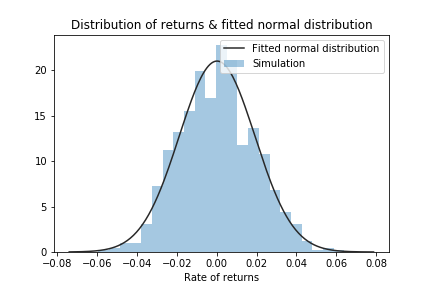
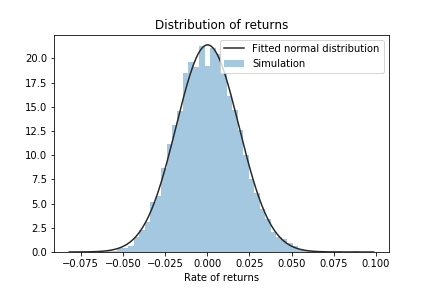
thesis: Continued with results

diff --git a/thesis/content/results.tex b/thesis/content/results.tex
@@ -80,7 +80,19 @@ when the equilibrium is reached is shown in ~\ref{fig:basic_market_depth_equilib
     \label{fig:market_depths}
 \end{figure}
 
+% Evolution and characteristics of the order book via the heatmap
+The complete evolution of the order book thorough the simulations is shown in figure
+~\ref{fig:basic_orderbook_evo}. The 
+
 \begin{figure}
+    \includegraphics[width=\linewidth]{plots/basic_order_book_evo.png}
+    \caption{Order book evolution}
+    \label{fig:basic_orderbook_evo}
+\end{figure}
+
+
+\begin{figure}
+    % Probably remove this
     \includegraphics[width=\linewidth]{plots/basic_market_depth_in_equilibrium.png}
     \caption{Market depth when equilibrium reached (last 50 sessions)}
     \label{fig:basic_market_depth_equilibrium}
@@ -98,32 +110,21 @@ the first 100 trading sessions are filtered out from the simulation with
 lower initiated market price and the data produced from it is used for 
 studying the stylized facts in the model.
 
+% Autocorrelation
 The autocorrelation function (ACF) and partial autocorrelation function (PACF) for the last prices of
-each session are plotted in the figure ~\ref{fig:basic_autocorr}. ACF and PACF indicate that there is 
+each session are plotted in the figure ~\ref{fig:basic_autocorr}. Even though the literature discuss
+about the absence of autocorrelation in asset returns, the prices themselves are already stationary when
+the equilibrium is reached which is obviously not the case in real markets. ACF and PACF indicate that there is 
 an autoregressive (AR) process for up to 15 lags and a moving average (MA) process to the third lag. Therefore
-there is a clear autocorrelation in the model with the stated simulation parameters. This
-observation is possibly caused by option for doing nothing which occurs with slightly higher than
-one-third probability due to slight chance for invalid order submission. As the price in each order
+there is a clear autocorrelation in the model with the stated simulation parameters. One could expect such
+a behaviour to be caused by the traders' option of not changing their active order which happened with a probability of
+one-third per placement. As the price in each order
 is dependent on the market price which existed when the order was created and as there is a chance that
-this order will stay in the order book for some time, the market price in the past has influence on the
-current structure of the order book and therefore a past market prices have effect on the upcoming prices.
+this order will stay in the order book for some time, therefore the market price in the past has influence on the
+current structure of the order book as some of the orders are carried to future state of the market. 
+In other words, a past market prices may have effect on the upcoming prices via the order book.
 This phenomenon can be interpret from the figure ~\ref{fig:basic_market_depth_equilibrium}: the valley
-formed by the sides of the order book resembles river. In case of no autocorrelation, one would expect
-that there would be no clear continuous valley formed by the order book and the spread would change
-its location more intensively. 
-% NOT TRUE, autocorrelation found when there is no option for "inaction"
-% Maybe the reason is that when the price gets lower, less has 
-
-This indicates that if the zero intelligent traders are given the option to not change their orders and
-the market is structured as continuous double auction, autocorrelation may be inevitable. Either the
-rationality of the traders regarding to when they decide to do nothing should be increased, the option
-to do nothing should be taken off or limit the lifetime of an order in order to reduce the autocorrelation.
-In addition, \citet{StylizedFacts01} also discussed that in the real markets there may be autocorrelation 
-of returns for small intraday time periods, such as 20 minutes, due to market microstructure and therefore
-one trading session in the simulation may be more closer, in terms of interpretation, to a smaller period 
-than one day.
-% Something about intra day autocorrelation in real markets. Maybe if a trading session is considered as
-% trading hour, the simulation is more realistic?
+formed by the sides of the order book resembles river.
 
 \begin{figure}
     \includegraphics[width=\linewidth]{plots/basic_autocorrelation.png}
@@ -131,33 +132,103 @@ than one day.
     \label{fig:basic_autocorr}
 \end{figure}
 
+% The real reason for the autocorrelation
+However, this is not the underlying reason for the existence of the autocorrelation. There is similar type and
+magnitude of autocorrelation when the option of doing nothing is taken away. This can be observed in the figure 
+~\ref{fig:forcesub_autocorr}. This suggests that the autocorrelation is not caused by the order book structure
+as in the said experiment the order book reconstructed during each session. Furthermore, as the investors themselves are
+not aware of the past and only their positions are the only component reflecting the past, explanation for the 
+autocorrelation lies in these positions. Even though the total amount of currency and stock stay constant throughout
+trading sessions the distribution of the assets among the traders do not. The relationship between the imbalance
+of the assets between the traders, represented as the standard deviation of the positions among the traders, and
+the next session's last market price is studied using a multivariate linear regression. This model's performance is
+shown in the table ~\ref{tbl:price_explanation}. The model is statistically significant as the p-value of f-statistics
+is near zero. In addition, the coefficient of determination, called R squared, is as high as 0.999 meaning that
+almost all of the variance in the next session's price is explained by the regression model. To summarize, the
+autocorrelation is caused by the imbalance of the positions among the traders and not by the market microstructure
+or as a direct result of the decision mechanics of the traders. There is significant multicollinearity in the regression
+model thus the individual coefficients or the p-values of the explanatory variables cannot be interpret but this 
+does not as is affect to the predictability of the model. 
+
+
+\begin{figure}
+    \includegraphics[width=\linewidth]{plots/forcesub_autocorrelation.png}
+    \caption{Autocorrelation of the simulation of no option for inaction}
+    \label{fig:forcesub_autocorr}
+\end{figure}
+
+\begin{table}
+    \input{tables/price_explanation.tex}% table.tex > \mytable
+    \caption{Linear regression explaining future price with the Standard deviation of stock and currency positions per session}
+    \label{tbl:price_explanation}
+\end{table}
+
+% Proposion to real markets
+This finding also has a proposion for real markets: the price may also be driven by the imbalance of wealth between traders 
+not just the total amounts of assets. For example, if one buyer has excess cash compared to other investors that buyer is more 
+inclined to make a bid order of higher value than others. This buyer has an option to overshoot the price by buying 
+significant block of the ask side increasing the market price rapidly but this kind of burst less likely if the cash 
+is equally distributed among the buyers and the buyers make decisions independently. In the latter case there is less
+impact for each buyer to the market price thus such burst of price would require coordination between the buyers.
+
+% How to fix autocorrelation
+To reduce the autocorrelation, one option would be to increase the amount of traders to dilude the effect as then
+one trader skewing their positions has little impact on the price dynamics. Another option would be to change the 
+distribution or logic how the traders pick amount of currency and stock to allocate to each order.In addition, 
+\citet{StylizedFacts01} also discussed that also the real markets may have some autocorrelation 
+of returns for small intraday time periods, such as 20 minutes, and therefore one trading session in the simulation 
+may be more closer, in terms of comparison, to an intraday time period. However, they stated this autocorrelation
+to be caused by market microstructure and as this could be also a cause in the autocorrelation in the simulation,
+the more impactful component is the asset imbalance with current simulation parameters and implementation.
+
+
 % Fat-tailed returns
-The returns are, however, fat-tailed as can be observed from figure 
-~\ref{fig:basic_return_fitdistr}. The distribution of returns decay
-initially rapidly when moving from the mean compared to the fitted
-normal distribution but the tails of the distributions stretch
-further due to high kurtosis. However, the distribution does have
-significantly higher spike in the mean than what is observed, for 
-example, in the figure~\ref{fig:sp_fat_tails} regarding to S\&P500's
-fat tails. 
-% basic_fat_tails_cumdist
+In order to increase the robustness of estimating whether the market prices have fat tails or not, the parameters of the
+simulations are left unchanged except that the simulation is extended to 10 000 sessions. Jarque-Bera goodness of fit test,
+which was used to determine if the distributions are normal or not, require substantial sized sample in order to be accurate.
+The null hypothesis of Jarque-Bera test is a joint hypothesis of that the distribution has no skewness and excess kurtosis. 
+As can be observed from ~\ref{fig:basic_return_distr_per_session} and ~\ref{fig:basic_return_distr_intrasession}, the last 
+prices of sessions are normally distributed but not the intrasession prices. The p-values of Jarque-Bera test suggests similar
+results: 0.73 and 0.00 respectively. Therefore the null hypothesis is rejected for the intrasession returns but not for
+end of session returns. This is inline with the findings of \citet{Raberto05}. However \author{Raberto05} had slightly
+different market structure: their model's order book was emptied after each trading day and ...
+\author{Raberto05} did not discuss about the fat tailed returns more than that they are formed due to the market microstructure.
+The spike in the distribution of the intrasession returns may be caused by the structure of the order book. If the order book 
+sides are steep, as observed in this simulation illustrated in ???, it requires substantially sized order to push the opposing 
+side back and have a significant effect on the price. Therefore the price changes between trades are generally rather small
+until there comes an order that can buy or sell significant chunk of the opposing side and have instant impact on the price. 
+In such a case the opposing side may be weakened so much that the price change can be radical. Therefore the reason for the
+spike in the returns may be caused by the occurence that small and medium sized orders may have similar impact on the price
+but big orders may push the side relatively much more further as the density of the order quantitity drops when moving further
+away from the last market price.
+
+
+The returns of the market prices after each session are not fat-tailed distributed as can be observed from the figure 
+~\ref{fig:basic_return_distr_per_session} but the intrasession . This is somewhat expected: the order prices themselves are drawn from a normal distribution.
+However, the returns between trades do diverge from normal distribution, as can be observed ~\ref{fig:basic_return_distr_intrasession} 
+from  but this occurs due to the effects the of microstructure in short term. If one order has high quantity and 
+relatively attractive price the order might get matched multiple times in a row resulting in the spike of zero return 
+shown in the figure. One option to produce the fat-tailed distributions could be to shift the mean of the normal distribution, 
+which is used to draw the order prices, depending on whether the order is a bid or an ask. 
+
+% \citet{Raberto05} found fat tails in intra day
 
 
 \begin{figure}
     \centering
     \begin{subfigure}{.5\textwidth}
-      \centering
-      \includegraphics[width=\linewidth]{plots/basic_fat_tails.png}
-      \caption{Return distribution}
-      \label{fig:basic_return_fitdistr}
+        \centering
+        \includegraphics[width=\linewidth]{plots/basic_fat_tails_per_session.png}
+        \caption{Last price of each session}
+        \label{fig:basic_return_distr_per_session}
     \end{subfigure}%
     \begin{subfigure}{.5\textwidth}
-      \centering
-      \includegraphics[width=\linewidth]{plots/basic_fat_tails_cumdist.png}
-      \caption{Return cumulative distribution}
-      \label{fig:basic_return_cumdistr}
+        \centering
+        \includegraphics[width=\linewidth]{plots/basic_fat_tails_intrasession.png}
+        \caption{Between trades}
+        \label{fig:basic_return_distr_intrasession}
     \end{subfigure}
-    \caption{Return distributions after 100 sessions}
+    \caption{Distributions of returns after 100 sessions}
     \label{fig:basic_return_distr}
 \end{figure}
 
@@ -167,7 +238,7 @@ The autocorrelation of the volatilities in figure ~\ref{fig:basic_volaclusters}
 indicate there are some volatility clusters in short term. Both, ACF and PACF, shows slow
 decay indicating that there are both of the autocorrelation terms, AR and MA,
 present in the volatility of the market price. The effect is, however, rather short term
-as it is not carried over trading sessions as shown in the appendix ~\ref{app:basic_volaclusters_per_session}
+as it is not carried over trading sessions as shown in the appendix ~\ref{app:basic_volaclusters_per_session}.
 
 
 \begin{figure}
@@ -178,4 +249,4 @@ as it is not carried over trading sessions as shown in the appendix ~\ref{app:ba
 
 \subsection{Arbitrage simulation}
 
-To 
+To contribute to 

diff --git a/thesis/tables/price_explanation.tex b/thesis/tables/price_explanation.tex
@@ -1,0 +1,34 @@
+\begin{center}
+\begin{tabular}{lclc}
+\toprule
+\textbf{Dep. Variable:}                            & Last price per session, shifted 1 & \textbf{  R-squared (uncentered):}      &     0.999   \\
+\textbf{Model:}                                    &                OLS                & \textbf{  Adj. R-squared (uncentered):} &     0.999   \\
+\textbf{Method:}                                   &           Least Squares           & \textbf{  F-statistic:       }          & 5.924e+05   \\
+\textbf{Date:}                                     &          Mon, 22 Jun 2020         & \textbf{  Prob (F-statistic):}          &     0.00    \\
+\textbf{Time:}                                     &              21:47:20             & \textbf{  Log-Likelihood:    }          &   -4731.1   \\
+\textbf{No. Observations:}                         &                  999              & \textbf{  AIC:               }          &     9466.   \\
+\textbf{Df Residuals:}                             &                  997              & \textbf{  BIC:               }          &     9476.   \\
+\textbf{Df Model:}                                 &                    2              & \textbf{                     }          &             \\
+\bottomrule
+\end{tabular}
+\begin{tabular}{lcccccc}
+                                                   & \textbf{coef} & \textbf{std err} & \textbf{t} & \textbf{P$> |$t$|$} & \textbf{[0.025} & \textbf{0.975]}  \\
+\midrule
+\textbf{Std Dev of currency positions per session} &       0.0002  &      3.8e-06     &    50.178  &         0.000        &        0.000    &        0.000     \\
+\textbf{Std Dev of stock positions per session}    &      -0.0515  &        0.004     &   -14.215  &         0.000        &       -0.059    &       -0.044     \\
+\bottomrule
+\end{tabular}
+\begin{tabular}{lclc}
+\textbf{Omnibus:}       & 13.010 & \textbf{  Durbin-Watson:     } &    0.865  \\
+\textbf{Prob(Omnibus):} &  0.001 & \textbf{  Jarque-Bera (JB):  } &   21.220  \\
+\textbf{Skew:}          &  0.002 & \textbf{  Prob(JB):          } & 2.47e-05  \\
+\textbf{Kurtosis:}      &  3.714 & \textbf{  Cond. No.          } & 2.88e+04  \\
+\bottomrule
+\end{tabular}
+%\caption{OLS Regression Results}
+\end{center}
+
+Warnings: \newline
+ [1] Standard Errors assume that the covariance matrix of the errors is correctly specified. \newline
+ [2] The condition number is large, 2.88e+04. This might indicate that there are \newline
+ strong multicollinearity or other numerical problems.

diff --git a/thesis/content/reserve.tex b/thesis/content/reserve.tex
@@ -104,3 +104,6 @@ clearing is conducted each time a new order arrives.
 
 
 
+As ACF and PACF require stationary data, the 
+first 100 trading sessions are filtered out in order to start the time series from where
+the market has reached the equilibrium.
